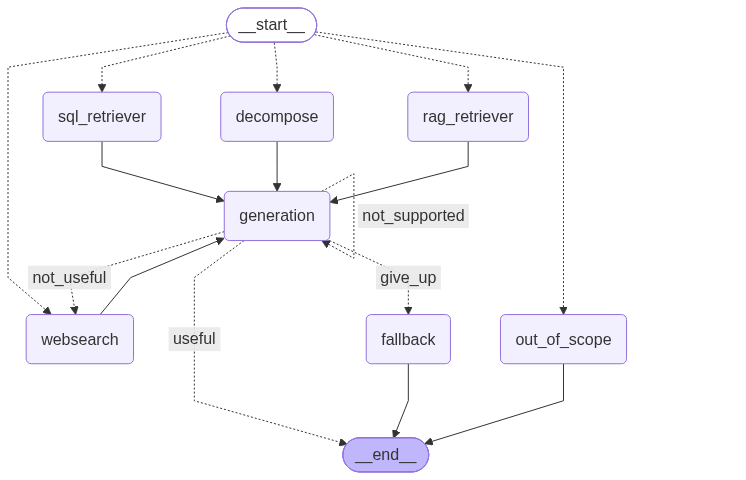
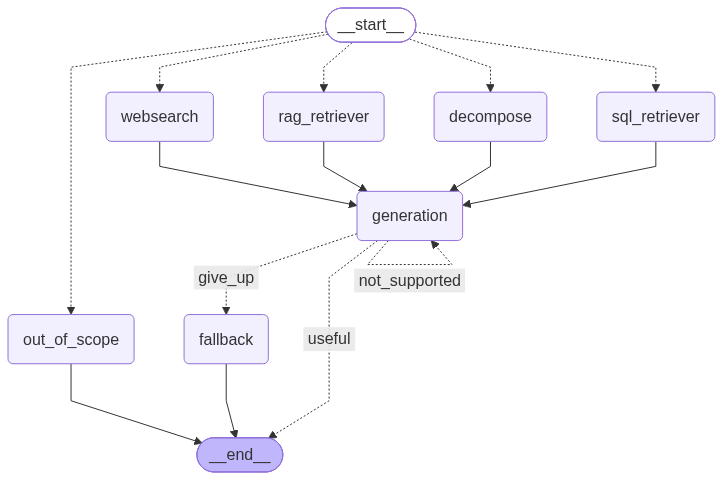
refactor(graph): stabilize LangGraph workflow and enhance router flexibility - Add Punctuation Insensitivity and Colloquial Query Handling rules to router chain for better intent classification. - Integrate chat_history (MessagesPlaceholder) into rag_grader_chain and rag nodes for multi-turn context

diff --git a/src/graphs/chains/hallucination_chains.py b/src/graphs/chains/hallucination_chains.py
@@ -25,28 +25,27 @@ class Hallucination(BaseModel):
 
 structure_llm = llm.with_structured_output(Hallucination)
 
-system_prompt = """
-You are a strict Enterprise Quality & Fact-Checking Auditor.
-Your single mission is to detect HALLUCINATIONS (fabricated facts, invented metrics, or unsupported claims) in the assistant's response.
+system_prompt = """You are an Enterprise Quality & Fact-Checking Auditor.
+Your single mission is to detect SEVERE HALLUCINATIONS (fabricated metrics, invented entities, or factual contradictions) in the assistant's response.
 
-You must rigorously compare the ASSISTANT GENERATION against the PROVIDED VERIFIED CONTEXT.
+You must compare the ASSISTANT GENERATION against the PROVIDED VERIFIED CONTEXT.
 
 SCORING CRITERIA:
 - 'yes' (HALLUCINATION DETECTED):
-  * The response contains numbers, revenue figures, dates, or sales counts not present in the context.
-  * The response invents product names, categories, or customer sentiments/quotes that do not exist in the context.
-  * The response makes factual claims that cannot be traced directly back to the provided context.
+  * The response invents numeric metrics, percentages, revenue figures, or dates that directly contradict or have zero grounding in the context.
+  * The response invents completely fabricated product IDs, category names, or entities not found in the context.
+  * The response makes extreme factual claims contrary to what the data indicates.
 
-- 'no' (NO HALLUCINATION / FULLY GROUNDED):
-  * Every metric and core finding aligns with the provided SQL and Review context.
-  * Translating, summarizing, or synthesizing insights from foreign-language (Portuguese) reviews into Turkish is fully accepted.
-  * Structural introductions, formatting, and high-level summaries explaining the data are NOT hallucinations.
+- 'no' (NO HALLUCINATION / ACCEPTABLE):
+  * Metrics, category names, IDs, and rankings match the provided SQL or Context.
+  * Qualitative Summaries & Customer Sentiment: Translating, abstracting, summarizing, or synthesizing general customer experience/feedback (e.g. summarizing reviews from Portuguese/English into Turkish) is FULLY GROUNDED and MUST be scored 'no'.
+  * Do NOT mark a response as hallucination merely because the exact phrasing or wording does not appear verbatim in the source reviews/data.
+  * Grounded paraphrases, executive summaries, aggregations, and reasonable qualitative synthesis of customer reviews must be scored 'no'.
+  * High-level executive synthesis, contextual explanations, connective sentences, and polite introductions/conclusions are NOT hallucinations.
 
-- MultiStep & Qualitative Synthesis:
-  * When 'reasoning_steps' or qualitative customer voice is present, strategic summaries, root-cause deductions, and synthesizing takeaways derived from those steps are NOT hallucinations ('no').
-  * As long as the core entities and metrics match, executive synthesis is fully grounded.
+PRIMARY PRINCIPLE:
+Do NOT penalize natural language summarization, translation, or strategic synthesis as hallucination unless it invents conflicting numbers or fake entities.
 
-STRICT RULE:
 Provide strictly adhering output with a binary score: 'yes' (hallucinated) or 'no' (grounded).
 
 --- PROVIDED VERIFIED CONTEXT ---

diff --git a/src/graphs/workflow.py b/src/graphs/workflow.py
@@ -84,8 +84,8 @@ def grader_hallucination_and_answer(state:GraphState)->str:
     web_data = state.get("web_data")
     reasoning_steps = state.get("reasoning_steps")
     retry_count = state.get("retry_count", 0)
-    #if retry count gh 2 return give up
-    if retry_count >= 2:
+    #if retry count gh 4 return give up
+    if retry_count >= 4:
         print(f"--- !!! RETRY COUNT ({retry_count})  !!! ---")
         return "give_up"
 
@@ -145,6 +145,11 @@ def grader_hallucination_and_answer(state:GraphState)->str:
             return "not_useful"
     else:
         print("--Decision:Hallucination is Yes---")
+        state["last_feedback"] = (
+            "CRITICAL CORRECTION: Your previous attempt was flagged for hallucination "
+            "because it included ungrounded claims, numbers, or entities not present in the provided context "
+            "(SQL data, customer reviews/RAG, web search data, or reasoning steps). "
+            "You must rely strictly and solely on the provided context channels.")
         return "not_supported"
 
 work_flow.set_conditional_entry_point(
@@ -172,7 +177,7 @@ work_flow.add_conditional_edges(
     {
         "not_supported":GENERATE,
         "useful": END,
-        "not_useful" : WEBSEARCH,
+        "not_useful" : GENERATE,
         "give_up": "fallback"
 
     }

diff --git a/src/graphs/chains/router_chain.py b/src/graphs/chains/router_chain.py
@@ -55,6 +55,12 @@ Analyze the user query regardless of language (Turkish, English, Portuguese) and
    - If the user asks for aggregations, counts, or rankings of complaints/bad reviews by category, product, or seller (e.g., "en çok şikayet alan ilk 3 kategori", "hangi ürün daha çok olumsuz puan aldı?"):
      * ROUTE TO 'SQL'! This requires counting low review scores in relational tables.
    - ONLY route to 'RAG' if the user asks for qualitative opinions, themes, or reasons behind the complaints (e.g., "müşteriler neden şikayet ediyor?", "kargo paketlemesi hakkında ne diyorlar?").
+- PUNCTUATION INSENSITIVITY: 
+  * Do NOT let punctuation marks (like question marks '?', exclamation marks '!') or capitalization influence your routing decision. 
+  * Route purely based on the core semantic intent and data requirements of the query, ignoring whether it ends with a question mark or not.
+  - COLLOQUIAL & SHORTENED QUERY HANDLING:
+  * Users may use informal, shortened, or daily language without formal suffixes (e.g., instead of "şikayetleri nelerdir?", they might just write "şikayetler neler?", "ne diyorlar?", "durum ne?").
+  * Do NOT let missing suffixes or conversational phrasing confuse the routing decision. Focus purely on the underlying analytical or data retrieval intent.
 """
 
 

diff --git a/src/graphs/nodes/generations_node.py b/src/graphs/nodes/generations_node.py
@@ -17,6 +17,7 @@ def generation(state:GraphState) ->Dict[str,Any]:
 
     current_retry = state.get("retry_count",0)
 
+    last_feedback = state.get("last_feedback") or ""
     all_messages = state.get("messages") or []
 
 
@@ -29,7 +30,8 @@ def generation(state:GraphState) ->Dict[str,Any]:
         "sql_data":sql_data,
         "rag_data":rag_data,
         "web_data":web_data,
-        "reasoning_steps":reasoning_steps
+        "reasoning_steps":reasoning_steps,
+        "feedback": last_feedback
     })
     clean_generation = str(result_generation).strip()
     if not clean_generation:
@@ -37,7 +39,7 @@ def generation(state:GraphState) ->Dict[str,Any]:
             "Sağlanan veriler doğrultusunda sorunuza uygun bir analiz"
             " üretilemedi. Lütfen sorunuzu farklı parametrelerle detaylandırın."
         )
-    return {"generation": clean_generation,"retry_count": current_retry + 1,
+    return {"generation": clean_generation,"retry_count": current_retry + 1,"last_feedback": "",
             "messages": [
             HumanMessage(content=question),
             AIMessage(content=clean_generation)

diff --git a/src/graphs/nodes/rag_node.py b/src/graphs/nodes/rag_node.py
@@ -8,6 +8,9 @@ from src.tools.qrant_tools import search_reviews_in_qdrant
 def rag(state:GraphState) -> Dict[str,Any]:
     print("---RAG NODE---")
     question =state["question"]
+    #Chat history
+    raw_messages = state.get("messages") or []
+    recent_history = raw_messages[-4:] if len(raw_messages) > 4 else raw_messages
 
     rag_text = search_reviews_in_qdrant(query_text=question,limit=4)
 
@@ -21,7 +24,7 @@ def rag(state:GraphState) -> Dict[str,Any]:
 
     formatted_context = "\n\n".join([f"Review {i}: {r}" for i, r in enumerate(rag_text, 1)])
 
-    response = rag_grader_chain.invoke({"question":question,"context":formatted_context} )
+    response = rag_grader_chain.invoke({"question":question,"context":formatted_context,"chat_history": recent_history} )
 
     if response.datasource == "yes":
         return {

diff --git a/src/graphs/state.py b/src/graphs/state.py
@@ -17,6 +17,7 @@ class GraphState(TypedDict):
     generation: The synthesized final response, data analysis, or structured executive briefing generated by the LLM.
     retry_count: An execution counter tracking fallback and regeneration attempts to prevent infinite recursion loops during hallucination or relevance corrections.
     messages: keep the last messages
+    last_feedback: Feedback or error hints passed back to the generator when hallucination check fails.
     """
 
     question: str
@@ -38,3 +39,5 @@ class GraphState(TypedDict):
 
     generation: Optional[str]
     retry_count: int
+
+    last_feedback: Optional[str]

diff --git a/src/graphs/chains/rag_grader_chain.py b/src/graphs/chains/rag_grader_chain.py
@@ -3,7 +3,7 @@ from pydantic import BaseModel,Field
 from typing import Literal
 
 from src.graphs.project_models import get_models
-from langchain_core.prompts import ChatPromptTemplate
+from langchain_core.prompts import ChatPromptTemplate,MessagesPlaceholder
 from src.tools.qrant_tools import  search_reviews_in_qdrant
 load_dotenv()
 
@@ -34,6 +34,7 @@ Reviews Context:
 rag_grader_prompt = ChatPromptTemplate(
     [
         ("system",system_prompt),
+        MessagesPlaceholder(variable_name="chat_history", optional=True),
         ("user","User Question:{question}")
     ]
 )

diff --git a/src/graphs/chains/generation_chain.py b/src/graphs/chains/generation_chain.py
@@ -124,7 +124,7 @@ generation_prompt = ChatPromptTemplate(
         ("system",system_prompt),
         #for the LLM to remember
         MessagesPlaceholder(variable_name="chat_history",optional=True),
-        ("user","User Question:{question}")
+        ("user", "User Question: {question}\n\n[PREVIOUS ATTEMPT CORRECTION HINT (If any)]: {feedback}")
     ]
 )
 
